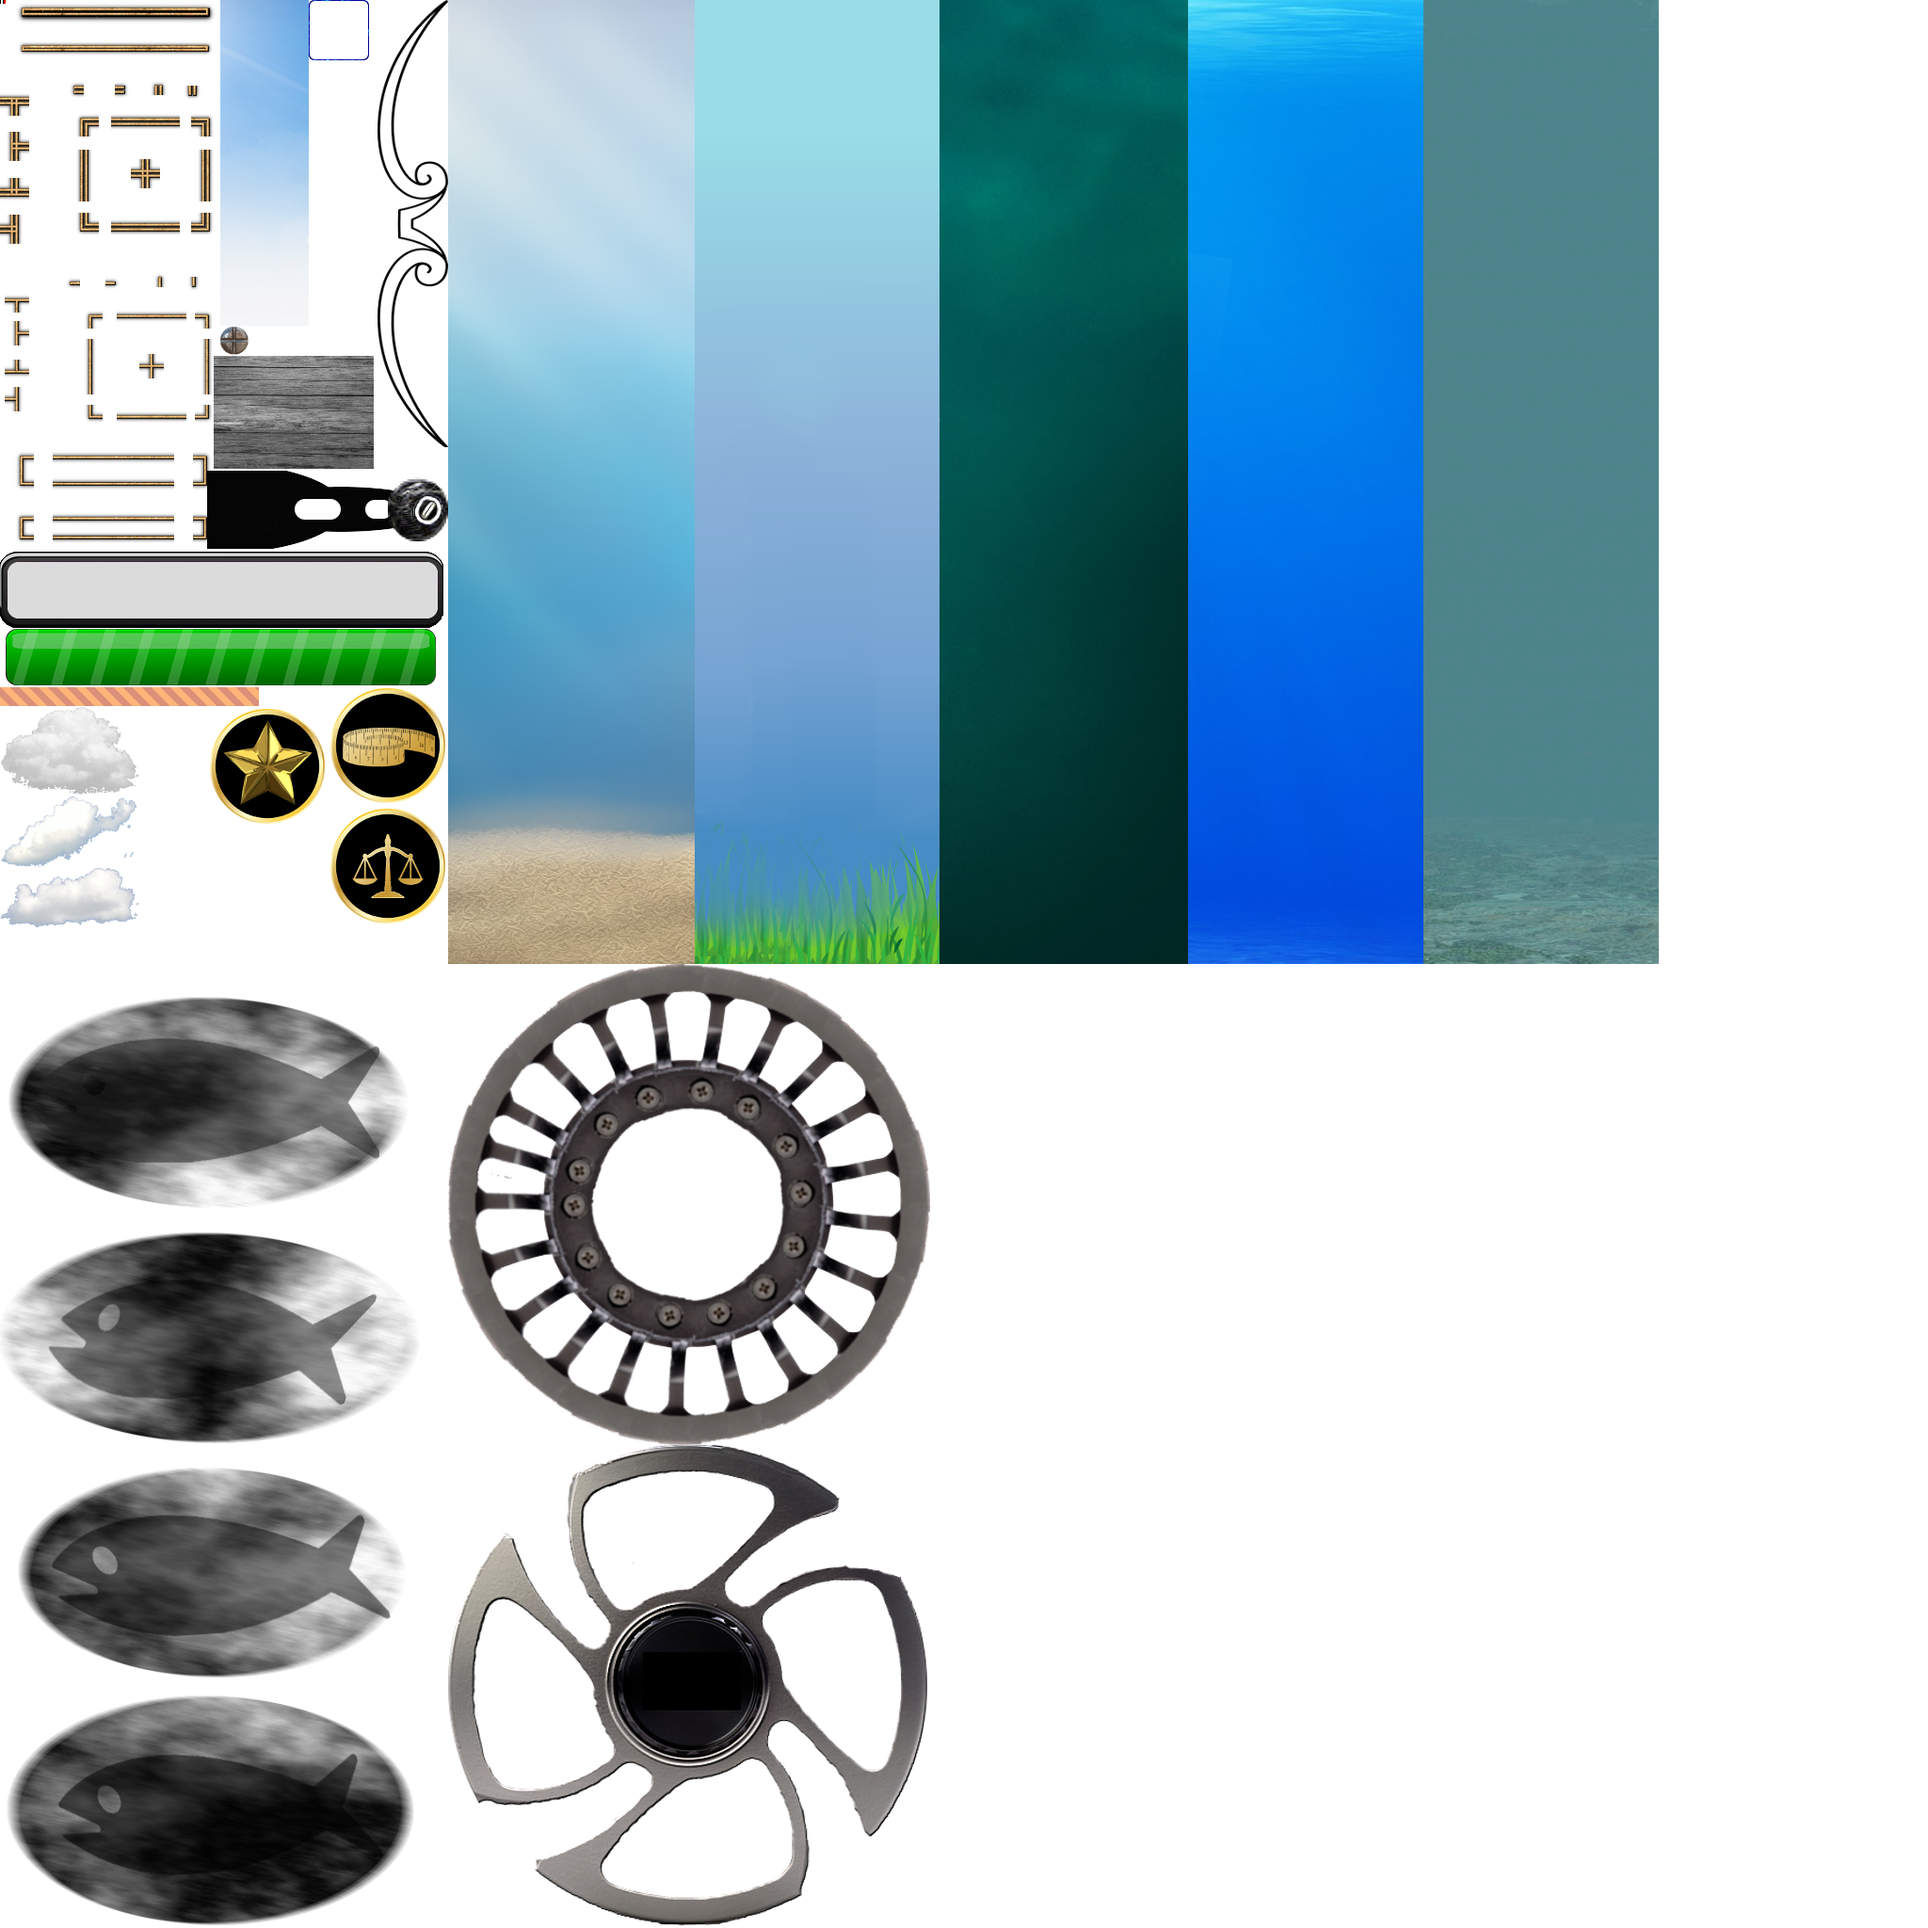
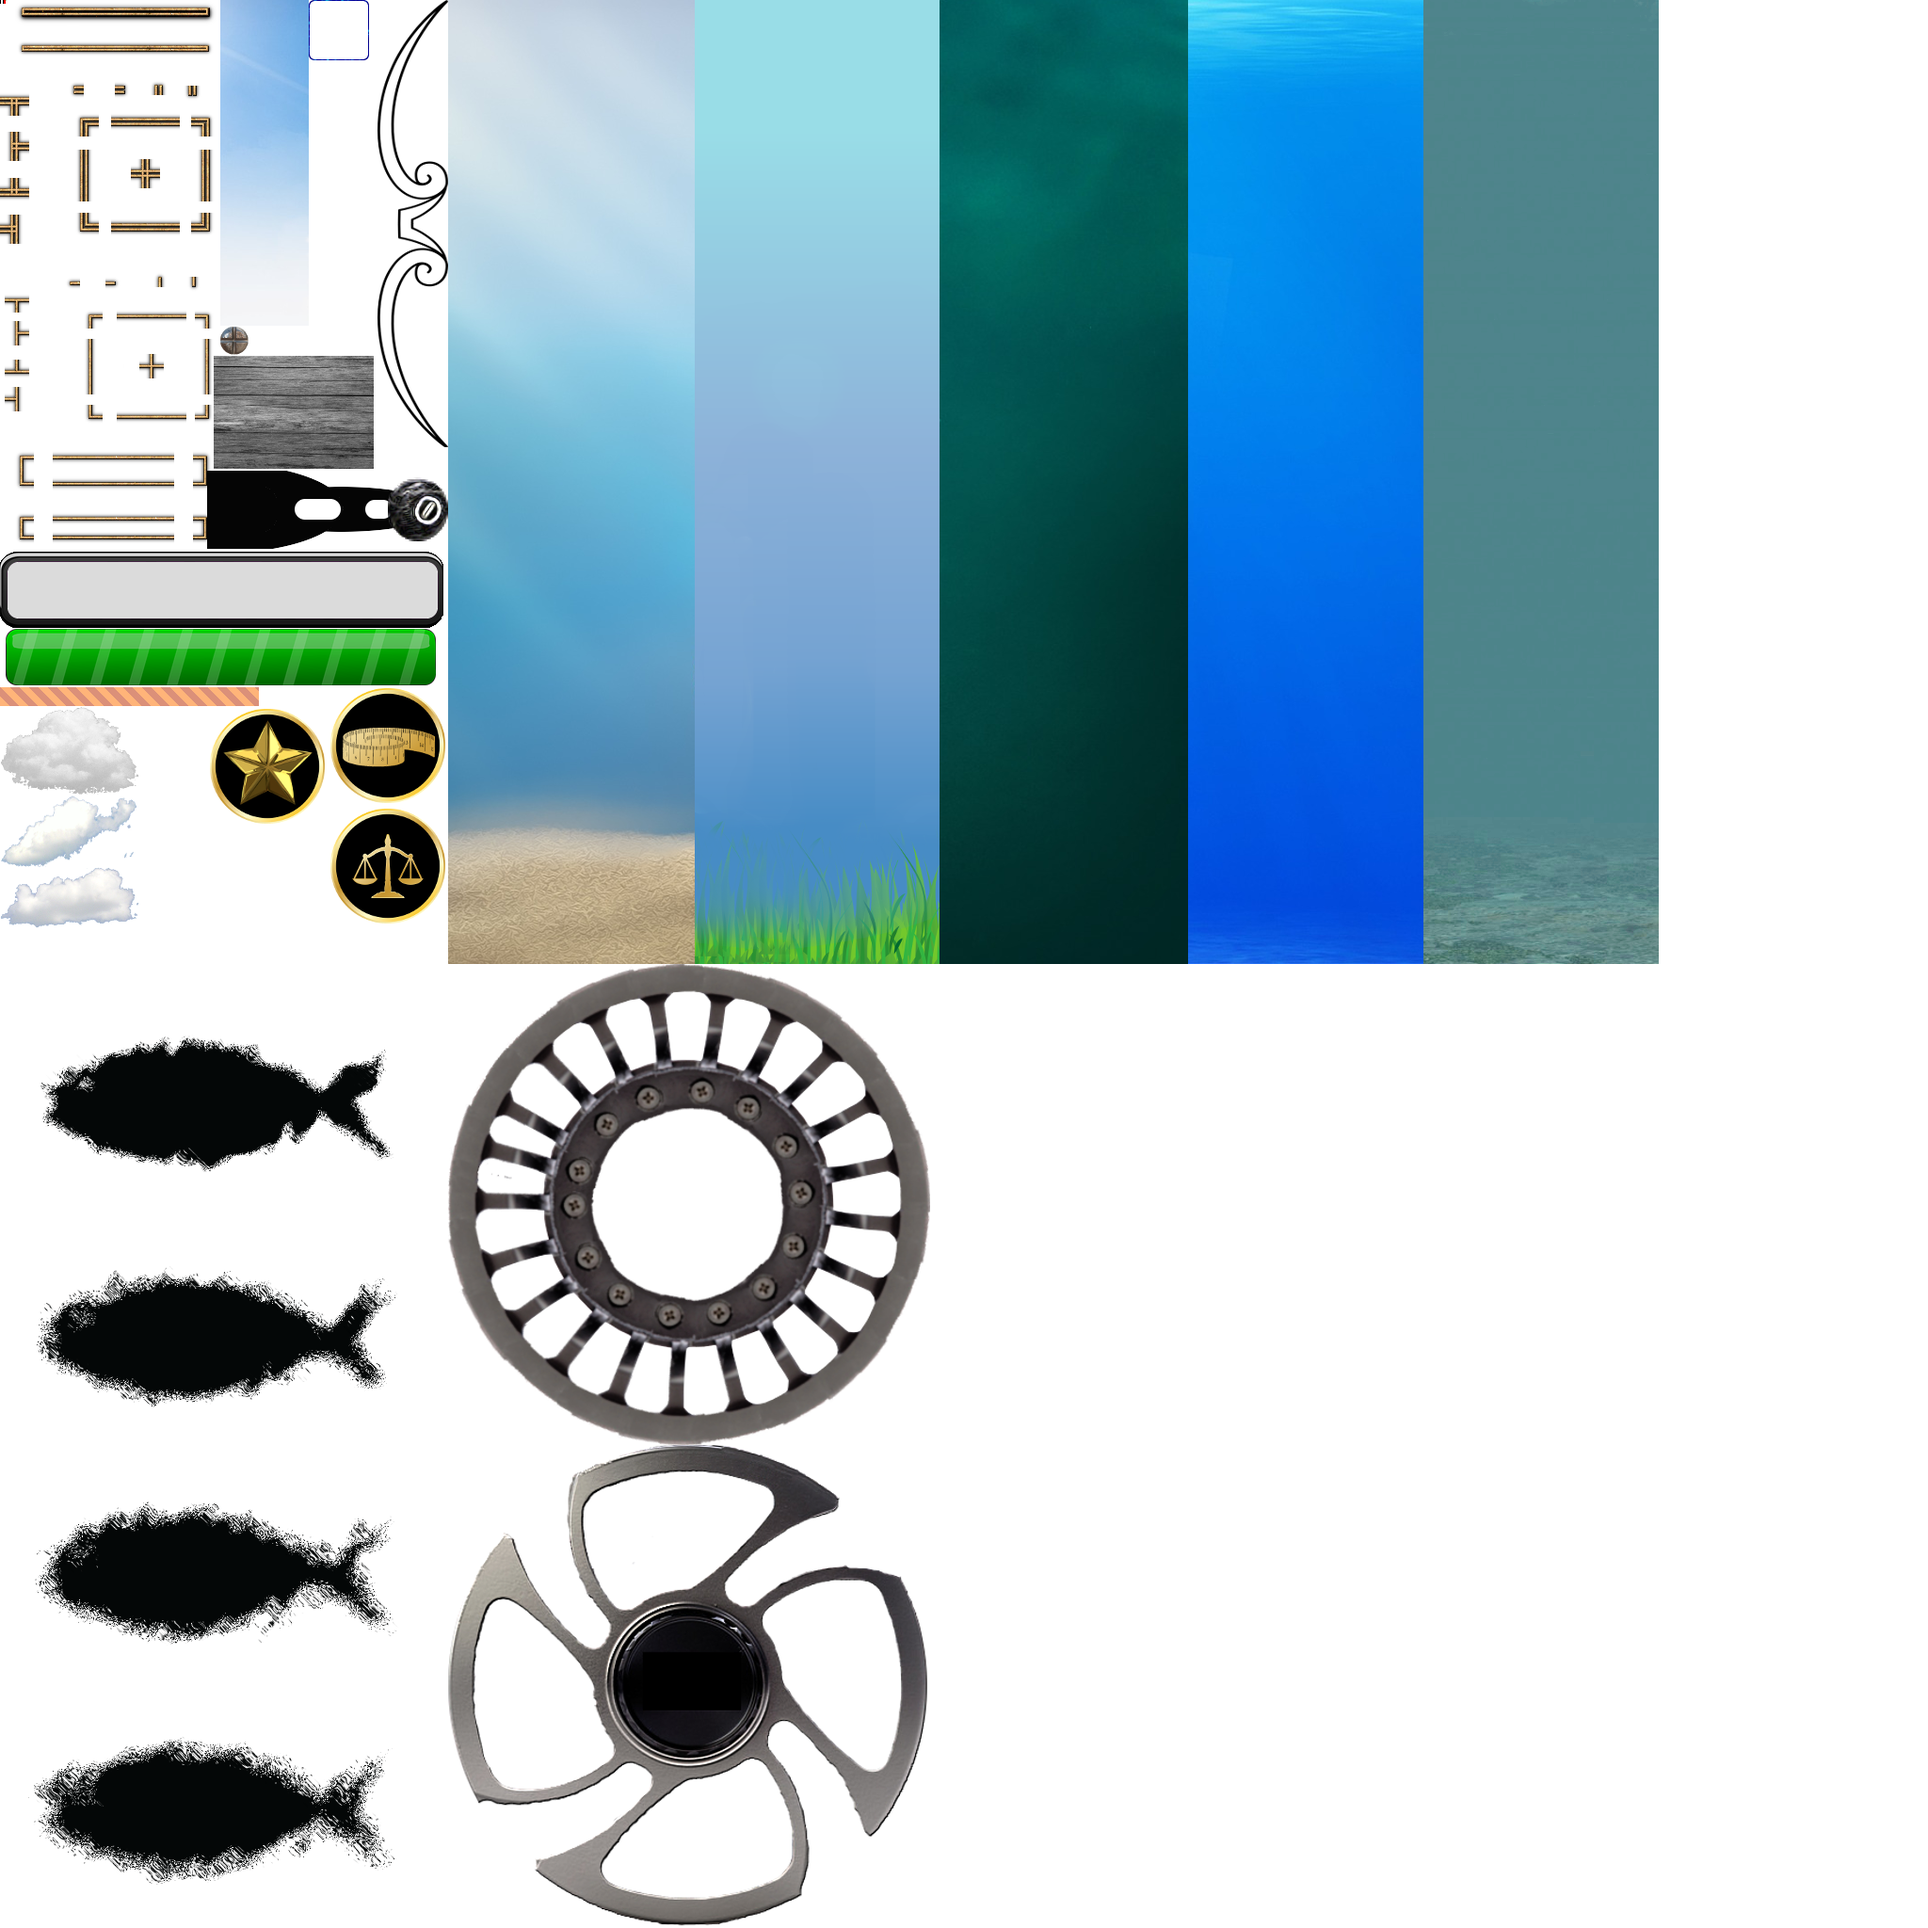
Adjustments to unknown fish image and fight/speed stats.

Changed region(s): [[0.0, 0.5, 0.2188, 1.0]]

diff --git a/FishKing/FishKing/FishKing/GumRuntimes/FramedCatchingBackgroundRuntime.cs b/FishKing/FishKing/FishKing/GumRuntimes/FramedCatchingBackgroundRuntime.cs
@@ -92,13 +92,13 @@ namespace FishKing.GumRuntimes
             FishFight = GlobalContent.Fish_Types[AttachedFish.FishType.Name].Fight;
             FishSpeed = GlobalContent.Fish_Types[AttachedFish.FishType.Name].Speed;
 
-            SpeedModifier = 0.25f + ((float)FishSpeed / 50);
-            FightModifier = 1f + ((float)FishFight / 50);
+            SpeedModifier = 0.25f + ((float)FishSpeed / 100);
+            FightModifier = 1f + ((float)FishFight / 100);
 
-            ChanceOfFight = (double)FishFight / 2000;
+            ChanceOfFight = (double)FishFight / 3000;
             ChanceOfLuck = 0.001;
 
-            FishHorizontalMovementTweenDuration = (double)3 - (FishSpeed / 35);
+            FishHorizontalMovementTweenDuration = (double)3 - (FishSpeed / 50);
 
             UnknownFishInstance.XOrigin = RenderingLibrary.Graphics.HorizontalAlignment.Left;
             UnknownFishInstance.YOrigin = RenderingLibrary.Graphics.VerticalAlignment.Center;
@@ -119,7 +119,7 @@ namespace FishKing.GumRuntimes
 
         private float DetermineUnknownFishWidth(int fishLengthMM)
         {
-            var normalizedLength = Decimal.Divide(fishLengthMM, FishGenerator.MaximumLengthMM);
+            var normalizedLength = Decimal.Divide(Math.Min(fishLengthMM,1000), 1000);
             var fishWidth = Math.Max(MinUnknownFishSpriteWidth,
                 (float)(normalizedLength * MaxUnknownFishSpriteWidth));
 
